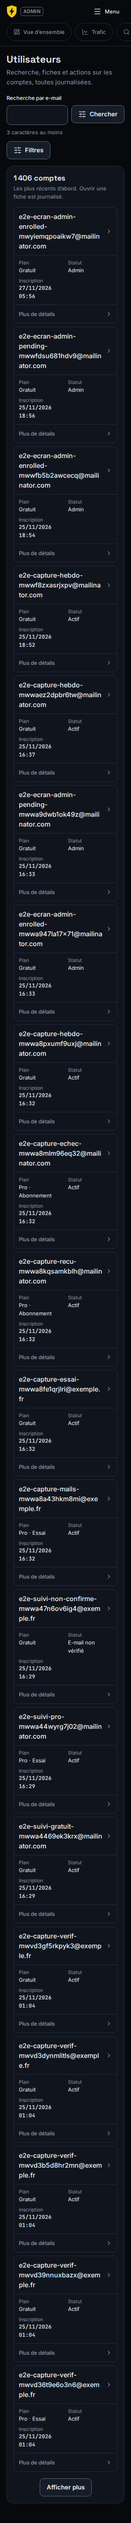
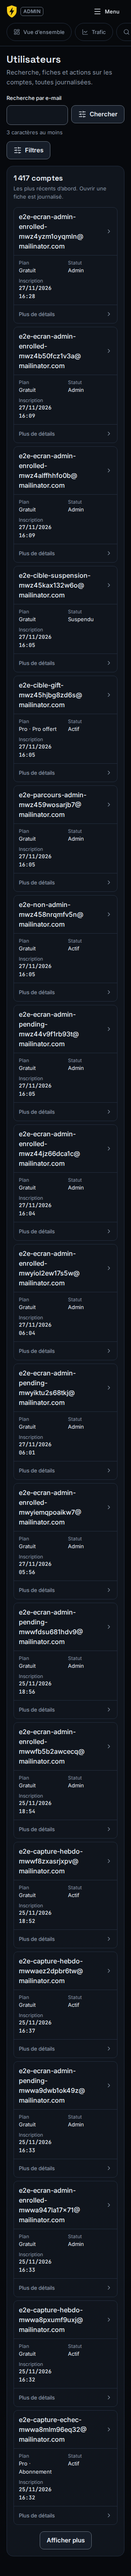
fix(admin): adresses et e-mails coupés seulement aux séparateurs, filtres d'Utilisateurs en grille pleine largeur

Changed region(s): [[0.0312, 0.0, 0.9062, 0.9969]]

diff --git a/libs/web/feature-admin/src/lib/pages/users/users.page.ts b/libs/web/feature-admin/src/lib/pages/users/users.page.ts
@@ -23,7 +23,7 @@ import { AdminApi, createAdminReport, toClientError, type AdminUserListParams } 
 import { RjBottomSheet, RjButton, RjIcon, RjInputField, RjToastService } from '@raijin/web-ui';
 import { adminScreen } from '../../shell/admin-screens';
 import { RjAdminAlert } from '../../ui/alert';
-import { NO_VALUE, RjAdminFilters, RjAdminPageHeader, RjAdminPanel, RjDataTable, formatLongDay, formatMetric, type RjRowLink, type RjTableColumn } from '../../ui';
+import { NO_VALUE, RjBreakText, RjAdminFilters, RjAdminPageHeader, RjAdminPanel, RjDataTable, formatLongDay, formatMetric, type RjRowLink, type RjTableColumn } from '../../ui';
 import { RjAdminReportState } from '../shared/page-helpers';
 
 const TRIAL_LABELS: Readonly<Record<TrialStatus, string>> = { none: 'Jamais', active: 'En cours', ended: 'Terminé', ineligible: 'Non éligible' };
@@ -60,7 +60,7 @@ const dateTime = (iso: string | null) => (iso ? new Intl.DateTimeFormat('fr-FR',
  */
 @Component({
   selector: 'rj-admin-users-page',
-  imports: [RjAdminPageHeader, RjAdminFilters, RjAdminPanel, RjDataTable, RjAdminReportState, RjBottomSheet, RjButton, RjIcon, RjInputField, RjAdminAlert],
+  imports: [RjBreakText, RjAdminPageHeader, RjAdminFilters, RjAdminPanel, RjDataTable, RjAdminReportState, RjBottomSheet, RjButton, RjIcon, RjInputField, RjAdminAlert],
   template: `
     <div class="flex flex-col gap-4 md:gap-6">
       <rj-admin-page-header [title]="screen.title" [description]="screen.description" />
@@ -69,8 +69,8 @@ const dateTime = (iso: string | null) => (iso ? new Intl.DateTimeFormat('fr-FR',
           <rj-input-field class="min-w-0 flex-1" label="Recherche par e-mail" type="search" inputmode="email" enterkeyhint="search" [(value)]="searchText" [error]="searchError()" hint="3 caractères au moins" />
           <button type="submit" rjButton="secondary" icon="filter" class="mt-7 shrink-0">Chercher</button>
         </form>
-        <rj-admin-filters title="Filtrer les comptes" [activeCount]="activeFilters()">
-          <label class="flex min-w-0 flex-col gap-1 lg:w-44">
+        <rj-admin-filters title="Filtrer les comptes" layout="grid" [activeCount]="activeFilters()">
+          <label class="flex min-w-0 flex-col gap-1">
             <span class="text-label font-semibold text-ink-muted">Plan</span>
             <select [class]="selectClass" (change)="setFilter('plan', $event)">
               <option value="" [selected]="!filters().plan">Tous</option>
@@ -79,7 +79,7 @@ const dateTime = (iso: string | null) => (iso ? new Intl.DateTimeFormat('fr-FR',
               }
             </select>
           </label>
-          <label class="flex min-w-0 flex-col gap-1 lg:w-44">
+          <label class="flex min-w-0 flex-col gap-1">
             <span class="text-label font-semibold text-ink-muted">Essai</span>
             <select [class]="selectClass" (change)="setFilter('trialStatus', $event)">
               <option value="" [selected]="!filters().trialStatus">Tous</option>
@@ -88,7 +88,7 @@ const dateTime = (iso: string | null) => (iso ? new Intl.DateTimeFormat('fr-FR',
               }
             </select>
           </label>
-          <label class="flex min-w-0 flex-col gap-1 lg:w-44">
+          <label class="flex min-w-0 flex-col gap-1">
             <span class="text-label font-semibold text-ink-muted">Statut</span>
             <select [class]="selectClass" (change)="setFilter('status', $event)">
               <option value="" [selected]="!filters().status">Tous</option>
@@ -97,17 +97,17 @@ const dateTime = (iso: string | null) => (iso ? new Intl.DateTimeFormat('fr-FR',
               }
             </select>
           </label>
-          <label class="flex min-w-0 flex-col gap-1 lg:w-44">
+          <label class="flex min-w-0 flex-col gap-1">
             <span class="text-label font-semibold text-ink-muted">Source UTM</span>
             <input [class]="selectClass" type="text" maxlength="100" [value]="filters().source ?? ''" (change)="setFilter('source', $event)" />
             <!-- Indication dans le libellé (pas d'id : le contenu des filtres est rendu deux fois, bureau et bottom sheet). -->
             <span class="text-label text-ink-muted wrap-break-word" data-filter-hint>« (direct) » pour les comptes sans source</span>
           </label>
-          <label class="flex min-w-0 flex-col gap-1 lg:w-44">
+          <label class="flex min-w-0 flex-col gap-1">
             <span class="text-label font-semibold text-ink-muted">Inscrit depuis</span>
             <input [class]="selectClass" type="date" [value]="filters().signupFrom ?? ''" (change)="setFilter('signupFrom', $event)" />
           </label>
-          <label class="flex min-w-0 flex-col gap-1 lg:w-44">
+          <label class="flex min-w-0 flex-col gap-1">
             <span class="text-label font-semibold text-ink-muted">Inscrit jusqu’au</span>
             <input [class]="selectClass" type="date" [value]="filters().signupTo ?? ''" (change)="setFilter('signupTo', $event)" />
           </label>
@@ -166,7 +166,7 @@ const dateTime = (iso: string | null) => (iso ? new Intl.DateTimeFormat('fr-FR',
             <h3 class="font-display text-body font-semibold text-ink">Attribution</h3>
             <dl class="grid grid-cols-1 gap-1 text-body-sm sm:grid-cols-2">
               @for (item of attribution(user); track item.label) {
-                <div class="flex min-w-0 gap-2"><dt class="shrink-0 text-ink-muted">{{ item.label }}</dt><dd class="min-w-0 text-ink wrap-anywhere">{{ item.value }}</dd></div>
+                <div class="flex min-w-0 gap-2"><dt class="shrink-0 text-ink-muted">{{ item.label }}</dt><dd class="min-w-0 text-ink wrap-break-word"><rj-break-text [text]="item.value" /></dd></div>
               }
             </dl>
           </section>

diff --git a/libs/web/feature-admin/src/lib/ui/ui.spec.ts b/libs/web/feature-admin/src/lib/ui/ui.spec.ts
@@ -5,6 +5,7 @@ import { RjChart } from './chart/chart';
 import { buildChartConfig, horizontalLabelChars, readChartTheme, wrapCategoryLabel, summarizeChart, timeSeriesToChart, type RjChartDataset, type RjChartTheme } from './chart/chart-config';
 import { RJ_CHART_LOADER } from './chart/chart-loader';
 import { RjDataTable, resolveRowLink, type RjTableColumn } from './data-table';
+import { breakSegments } from './break-text';
 import { provideRouter } from '@angular/router';
 import { describeChange, formatChange, formatMetric } from './format';
 import { RjAdminFilters } from './filters';
@@ -309,7 +310,13 @@ describe('lisibilité à 320 px (aucune troncature)', () => {
     const cards = (fixture.nativeElement as HTMLElement).querySelector('[data-rj-cards]') as HTMLElement;
     const title = cards.querySelector('[data-rj-card-title]') as HTMLElement;
     expect(title.textContent?.trim()).toBe('e2e-responsive-mwvcin0123456789@exemple-tres-long.fr');
-    expect(title.className).toContain('wrap-anywhere');
+    // Retour à la ligne seulement après les séparateurs (`<wbr>` après `@`, `.`, `-`) : jamais en plein mot.
+    expect(title.className).toContain('wrap-break-word');
+    expect(title.className).not.toContain('wrap-anywhere');
+    expect(Array.from(title.querySelectorAll('[data-rj-break-text] > span')).map((span) => span.textContent)).toEqual([
+      'e2e-', 'responsive-', 'mwvcin0123456789@', 'exemple-', 'tres-', 'long.', 'fr',
+    ]);
+    expect(title.querySelectorAll('wbr').length).toBe(7);
     const values = Array.from(cards.querySelectorAll<HTMLElement>('[data-rj-card-value]'));
     expect(values.map((value) => value.textContent?.trim())).toEqual(['Pro · Abonnement', 'E-mail non vérifié']);
     for (const element of [title, ...values]) {
@@ -365,6 +372,47 @@ describe('lisibilité à 320 px (aucune troncature)', () => {
     expect(classes(more)).toContain('md:hidden');
     expect(more.querySelector('summary')?.textContent?.trim()).toBe('Plus de détails');
     expect(Array.from(more.querySelectorAll('[data-rj-card-value]')).map((dd) => dd.textContent?.trim())).toEqual(['Non éligible', 'newsletter-novembre']);
+  });
+
+  it('rj-break-text : points de coupure après les séparateurs, texte intact, aucune coupure en plein mot', () => {
+    expect(breakSegments('/tarifs/faq')).toEqual(['/', 'tarifs/', 'faq']);
+    expect(breakSegments('https://raijin.example/guides/rug-pull')).toEqual(['https:/', '/', 'raijin.', 'example/', 'guides/', 'rug-', 'pull']);
+    expect(breakSegments('a.b@mailinator.com')).toEqual(['a.', 'b@', 'mailinator.', 'com']);
+    expect(breakSegments('')).toEqual([]);
+    for (const value of ['/tarifs/faq', 'x--y..z', 'e2e-ecran-admin-pending-mwwa9dwb1ok49z@mailinator.com']) {
+      expect(breakSegments(value).join('')).toBe(value);
+    }
+  });
+
+  it('rj-data-table : la cellule titre du tableau bureau coupe aux séparateurs, jamais « anywhere »', async () => {
+    interface Row { path: string; clicks: number }
+    TestBed.configureTestingModule({ providers: [provideRouter([])] });
+    const fixture = TestBed.createComponent(RjDataTable<Row>);
+    fixture.componentRef.setInput('caption', 'Pages principales');
+    fixture.componentRef.setInput('columns', [
+      { key: 'path', label: 'Page', value: (row: Row) => row.path, primary: true },
+      { key: 'clicks', label: 'Clics', value: (row: Row) => row.clicks, unit: 'count' },
+    ]);
+    fixture.componentRef.setInput('rows', [{ path: '/tarifs/faq', clicks: 3 }]);
+    await fixture.whenStable();
+    const host = fixture.nativeElement as HTMLElement;
+    expect(host.innerHTML).not.toContain('wrap-anywhere');
+    const th = host.querySelector('tbody th') as HTMLElement;
+    expect(th.className).toContain('wrap-break-word');
+    expect(th.textContent?.trim()).toBe('/tarifs/faq');
+    expect(Array.from(th.querySelectorAll('[data-rj-break-text] > span')).map((span) => span.textContent)).toEqual(['/', 'tarifs/', 'faq']);
+  });
+
+  it('rj-admin-filters layout="grid" : grille pleine largeur à colonnes auto-fit, toujours alignée en haut', async () => {
+    const fixture = TestBed.createComponent(RjAdminFilters);
+    fixture.componentRef.setInput('layout', 'grid');
+    await fixture.whenStable();
+    const row = (fixture.nativeElement as HTMLElement).querySelector('[data-rj-filters-row]') as HTMLElement;
+    expect(row.className).toContain('lg:grid');
+    expect(row.className).toContain('w-full');
+    expect(row.className).toContain('grid-cols-[repeat(auto-fit,minmax(10rem,1fr))]');
+    expect(row.className).toContain('items-start');
+    expect(row.className).not.toContain('items-end');
   });
 
   it('rj-admin-filters : rangée alignée en haut (une aide sous un champ ne décale pas les autres)', async () => {

diff --git a/libs/web/feature-admin/src/lib/ui/data-table.ts b/libs/web/feature-admin/src/lib/ui/data-table.ts
@@ -3,6 +3,7 @@ import { RouterLink } from '@angular/router';
 import { type MetricUnit } from '@raijin/shared-contracts';
 import { RjIcon } from '@raijin/web-ui';
 import { AdminIcons } from './admin-icons';
+import { RjBreakText } from './break-text';
 import { formatMetric } from './format';
 
 /** Colonne de `rj-data-table`. Les textes sont affichés par interpolation (jamais en HTML) : données externes sûres. */
@@ -72,7 +73,8 @@ interface Row {
  * - de 768 à 1279 px : les mêmes cartes en grille de 2 colonnes, toutes les colonnes visibles ;
  * - à partir de 1280 px : tableau dense (chiffres alignés à droite), sans hauteur maximale (aucune ligne coupée :
  *   la pagination « Afficher plus » de l'écran limite la longueur), défilement horizontal seulement en dernier
- *   recours. Aucun texte tronqué : tout est renvoyé à la ligne, lisible sans survol.
+ *   recours. Aucun texte tronqué : tout est renvoyé à la ligne, lisible sans survol ; la cellule titre (URL,
+ *   e-mail) ne passe à la ligne qu'après ses séparateurs (`rj-break-text`).
  * `rowLink` rend la ligne cliquable (lien sur la cellule titre, cible ≥ 44 px) : `'/admin/x'` ou
  * `{ path: '/admin/utilisateurs', queryParams: { fiche: id } }`.
  *
@@ -80,7 +82,7 @@ interface Row {
  */
 @Component({
   selector: 'rj-data-table',
-  imports: [RouterLink, RjIcon],
+  imports: [RouterLink, RjIcon, RjBreakText],
   template: `
     @if (view().length === 0) {
       <p class="rounded-md border border-dashed border-line px-4 py-6 text-center text-body-sm text-ink-muted">{{ emptyText() }}</p>
@@ -113,13 +115,13 @@ interface Row {
               <tr class="border-b border-line align-top transition-colors duration-150 ease-raijin last:border-b-0 hover:bg-surface-raised">
                 @for (cell of row.cells; track cell.key; let first = $first) {
                   @if (first) {
-                    <th scope="row" class="px-3 py-2.5 font-medium text-ink wrap-anywhere" [class.text-right]="cell.end">
+                    <th scope="row" class="px-3 py-2.5 font-medium text-ink wrap-break-word" [class.text-right]="cell.end">
                       @if (row.link) {
                         <a [routerLink]="row.link.path" [queryParams]="row.link.queryParams" class="-my-2.5 flex min-h-11 items-center gap-1 rounded-sm hover:text-thunder-ink focus-visible:outline-2 focus-visible:outline-offset-2 focus-visible:outline-focus-ring">
-                          <span class="min-w-0" [class.tabular]="cell.mono">{{ cell.text }}</span>
+                          <span class="min-w-0" [class.tabular]="cell.mono"><rj-break-text [text]="cell.text" /></span>
                         </a>
                       } @else {
-                        <span class="block" [class.tabular]="cell.mono">{{ cell.text }}</span>
+                        <span class="block" [class.tabular]="cell.mono"><rj-break-text [text]="cell.text" /></span>
                       }
                     </th>
                   } @else {
@@ -143,12 +145,12 @@ interface Row {
                 [queryParams]="row.link.queryParams"
                 class="flex min-h-11 items-center gap-2 border-b border-line px-3 py-2.5 font-medium text-ink focus-visible:outline-2 focus-visible:outline-offset-2 focus-visible:outline-focus-ring"
               >
-                <span class="min-w-0 flex-1 wrap-anywhere" data-rj-card-title [class.tabular]="row.primary.mono">{{ row.primary.text }}</span>
+                <span class="min-w-0 flex-1 wrap-break-word" data-rj-card-title [class.tabular]="row.primary.mono"><rj-break-text [text]="row.primary.text" /></span>
                 <rj-icon [name]="chevron" [size]="16" class="text-ink-muted" />
               </a>
             } @else {
-              <p class="border-b border-line px-3 py-2.5 font-medium text-ink wrap-anywhere" data-rj-card-title [class.tabular]="row.primary.mono">
-                {{ row.primary.text }}
+              <p class="border-b border-line px-3 py-2.5 font-medium text-ink wrap-break-word" data-rj-card-title [class.tabular]="row.primary.mono">
+                <rj-break-text [text]="row.primary.text" />
               </p>
             }
             <dl class="grid grid-cols-2 gap-x-3 gap-y-2 px-3 py-2.5">

diff --git a/libs/web/feature-admin/src/lib/ui/filters.ts b/libs/web/feature-admin/src/lib/ui/filters.ts
@@ -8,6 +8,9 @@ import { RjBottomSheet, RjButton, desktopViewport } from '@raijin/web-ui';
  * « Filtres » ouvre un bottom sheet avec le même contenu (appliqué en direct, bouton « Voir les résultats »
  * pour refermer). Le sélecteur de période reste hors des filtres, toujours visible.
  *
+ * `layout="grid"` : la rangée occupe toute la largeur (colonnes égales `auto-fit`, au moins 10rem), pour les écrans
+ * à nombreux filtres ; `inline` (défaut) : champs à leur largeur, à la suite.
+ *
  * `<rj-admin-filters [activeCount]="filtresActifs()"> <label>…</label> <select>…</select> </rj-admin-filters>`
  */
 @Component({
@@ -16,7 +19,7 @@ import { RjBottomSheet, RjButton, desktopViewport } from '@raijin/web-ui';
   template: `
     <ng-template #content><ng-content /></ng-template>
     @if (desktop() !== false) {
-      <div class="hidden flex-wrap items-start gap-3 lg:flex" data-rj-filters-row>
+      <div [class]="rowClass()" data-rj-filters-row [attr.data-rj-filters-layout]="layout()">
         <ng-container *ngTemplateOutlet="content" />
       </div>
     }
@@ -40,8 +43,15 @@ export class RjAdminFilters {
   readonly description = input('');
   /** Nombre de filtres différents de la valeur par défaut, affiché dans le bouton mobile. */
   readonly activeCount = input(0);
+  /** `inline` : champs à leur largeur ; `grid` : grille pleine largeur à colonnes égales. */
+  readonly layout = input<'inline' | 'grid'>('inline');
 
   protected readonly desktop = desktopViewport();
   protected readonly open = signal(false);
+  protected readonly rowClass = computed(() =>
+    this.layout() === 'grid'
+      ? 'hidden w-full grid-cols-[repeat(auto-fit,minmax(10rem,1fr))] items-start gap-3 lg:grid'
+      : 'hidden flex-wrap items-start gap-3 lg:flex',
+  );
   protected readonly buttonLabel = computed(() => (this.activeCount() > 0 ? `Filtres (${this.activeCount()})` : 'Filtres'));
 }

diff --git a/libs/web/feature-admin/src/lib/ui/break-text.ts b/libs/web/feature-admin/src/lib/ui/break-text.ts
@@ -1,0 +1,42 @@
+import { ChangeDetectionStrategy, Component, computed, input } from '@angular/core';
+
+/** Séparateurs après lesquels une URL, un chemin ou un e-mail peut passer à la ligne. */
+const BREAK_AFTER = /([/.\-@?&=_#])/;
+
+/**
+ * Découpe un texte en segments qui se terminent par un séparateur (`/`, `.`, `-`, `@`, `?`, `&`, `=`, `_`, `#`).
+ * La concaténation des segments redonne le texte exact : aucun caractère perdu.
+ */
+export function breakSegments(text: string): string[] {
+  const segments: string[] = [];
+  let current = '';
+  for (const part of text.split(BREAK_AFTER)) {
+    if (part === '') continue;
+    current += part;
+    if (BREAK_AFTER.test(part) && part.length === 1) {
+      segments.push(current);
+      current = '';
+    }
+  }
+  if (current !== '') segments.push(current);
+  return segments;
+}
+
+/**
+ * Texte long sans espaces (URL, chemin, e-mail) qui passe à la ligne seulement après ses séparateurs : un `<wbr>`
+ * est inséré après chacun. À placer dans un parent `wrap-break-word` (`overflow-wrap: break-word`), qui ne coupe
+ * un segment en plein mot qu'en tout dernier recours (segment plus large que la colonne). Jamais tronqué.
+ *
+ * `<span class="wrap-break-word"><rj-break-text [text]="row.path" /></span>`
+ */
+@Component({
+  selector: 'rj-break-text',
+  // Aucun espace dans le modèle : il s'ajouterait au texte affiché.
+  template: `@for (segment of segments(); track $index) {<span>{{ segment }}</span><wbr />}`,
+  host: { 'data-rj-break-text': '' },
+  changeDetection: ChangeDetectionStrategy.OnPush,
+})
+export class RjBreakText {
+  readonly text = input.required<string>();
+  protected readonly segments = computed(() => breakSegments(this.text()));
+}

diff --git a/libs/web/feature-admin/src/lib/pages/pages.spec.ts b/libs/web/feature-admin/src/lib/pages/pages.spec.ts
@@ -217,6 +217,22 @@ describe('Utilisateurs', () => {
     expect(mobile.filter((element) => cut.test(element.className)).map((element) => element.textContent?.trim())).toEqual([]);
   });
 
+  it('e-mails coupés seulement après « @ » et les « . », filtres en grille pleine largeur dès 1024 px', async () => {
+    const kit = await open('/admin/utilisateurs');
+    kit.ctrl.expectOne(`${API}/admin/users`).flush(ADMIN_USER_PAGE_FIXTURE);
+    await flush(kit.harness);
+    const page = root(kit);
+    expect(page.innerHTML).not.toContain('wrap-anywhere');
+    const title = page.querySelector('[data-rj-card-title]') as HTMLElement;
+    expect(title.className).toContain('wrap-break-word');
+    expect(title.querySelector('[data-rj-break-text]')).not.toBeNull();
+    const row = page.querySelector('[data-rj-filters-row]');
+    if (row) {
+      expect(row.getAttribute('data-rj-filters-layout')).toBe('grid');
+      expect(Array.from(row.querySelectorAll('label')).some((label) => label.className.includes('lg:w-44'))).toBe(false);
+    }
+  });
+
   it('filtre « Source UTM » : indication en texte d’aide lisible en entier, pas en placeholder rogné', async () => {
     const kit = await open('/admin/utilisateurs');
     kit.ctrl.expectOne(`${API}/admin/users`).flush(ADMIN_USER_PAGE_FIXTURE);

diff --git a/libs/web/feature-admin/src/lib/ui/index.ts b/libs/web/feature-admin/src/lib/ui/index.ts
@@ -9,6 +9,7 @@ export * from './layout';
 export * from './period-select';
 export * from './filters';
 export * from './service-state';
+export * from './break-text';
 export * from './data-table';
 export * from './chart/chart';
 export * from './chart/chart-config';
